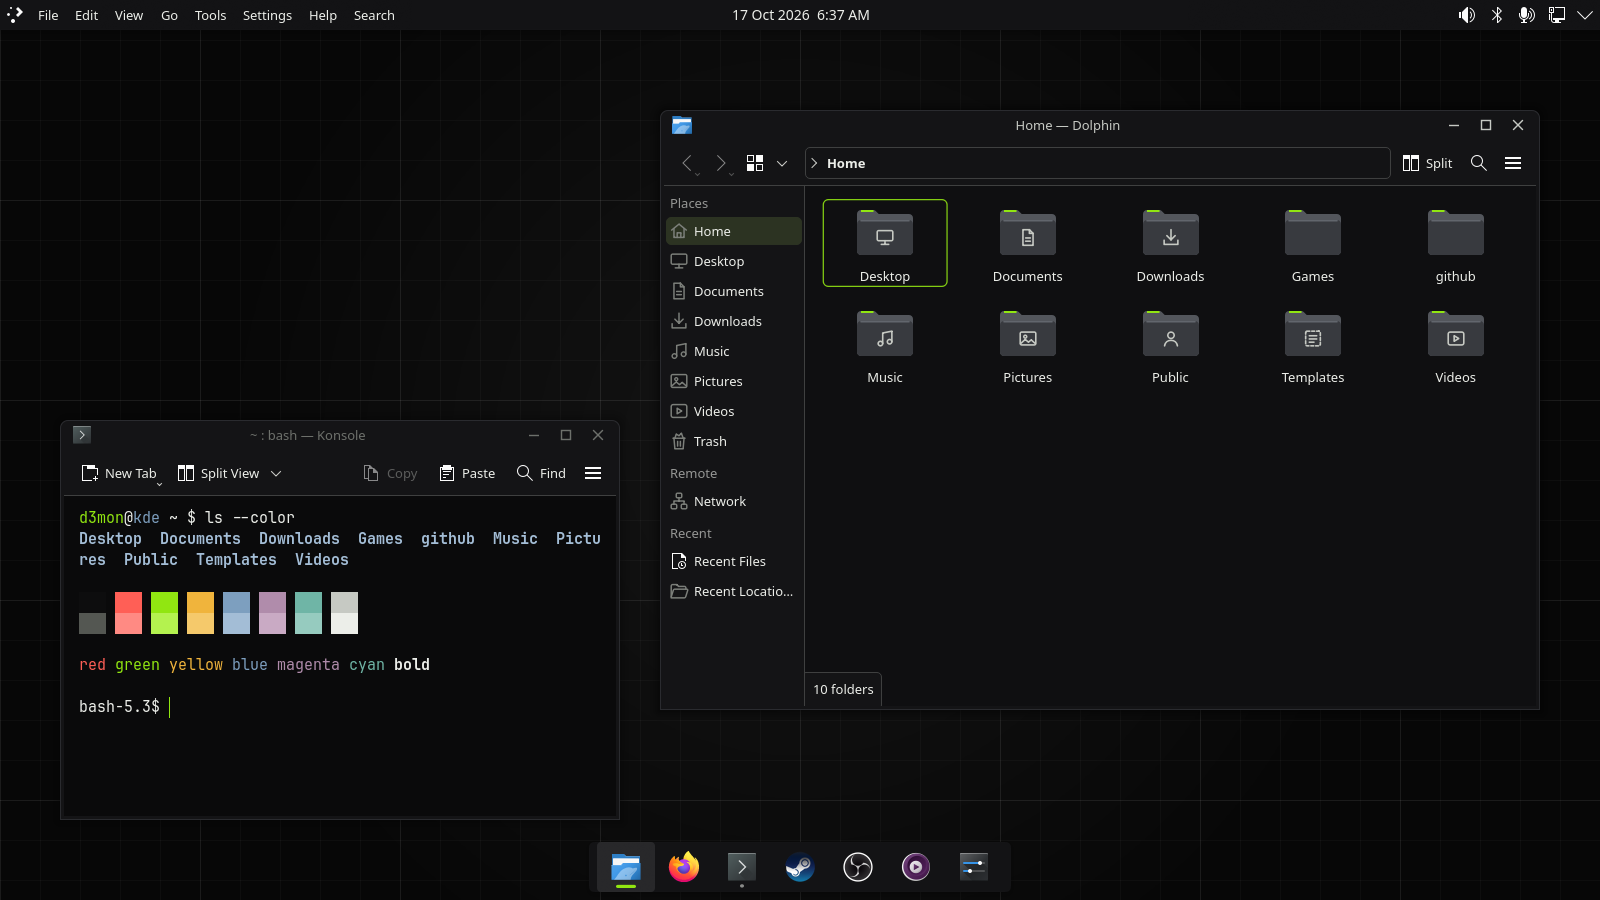
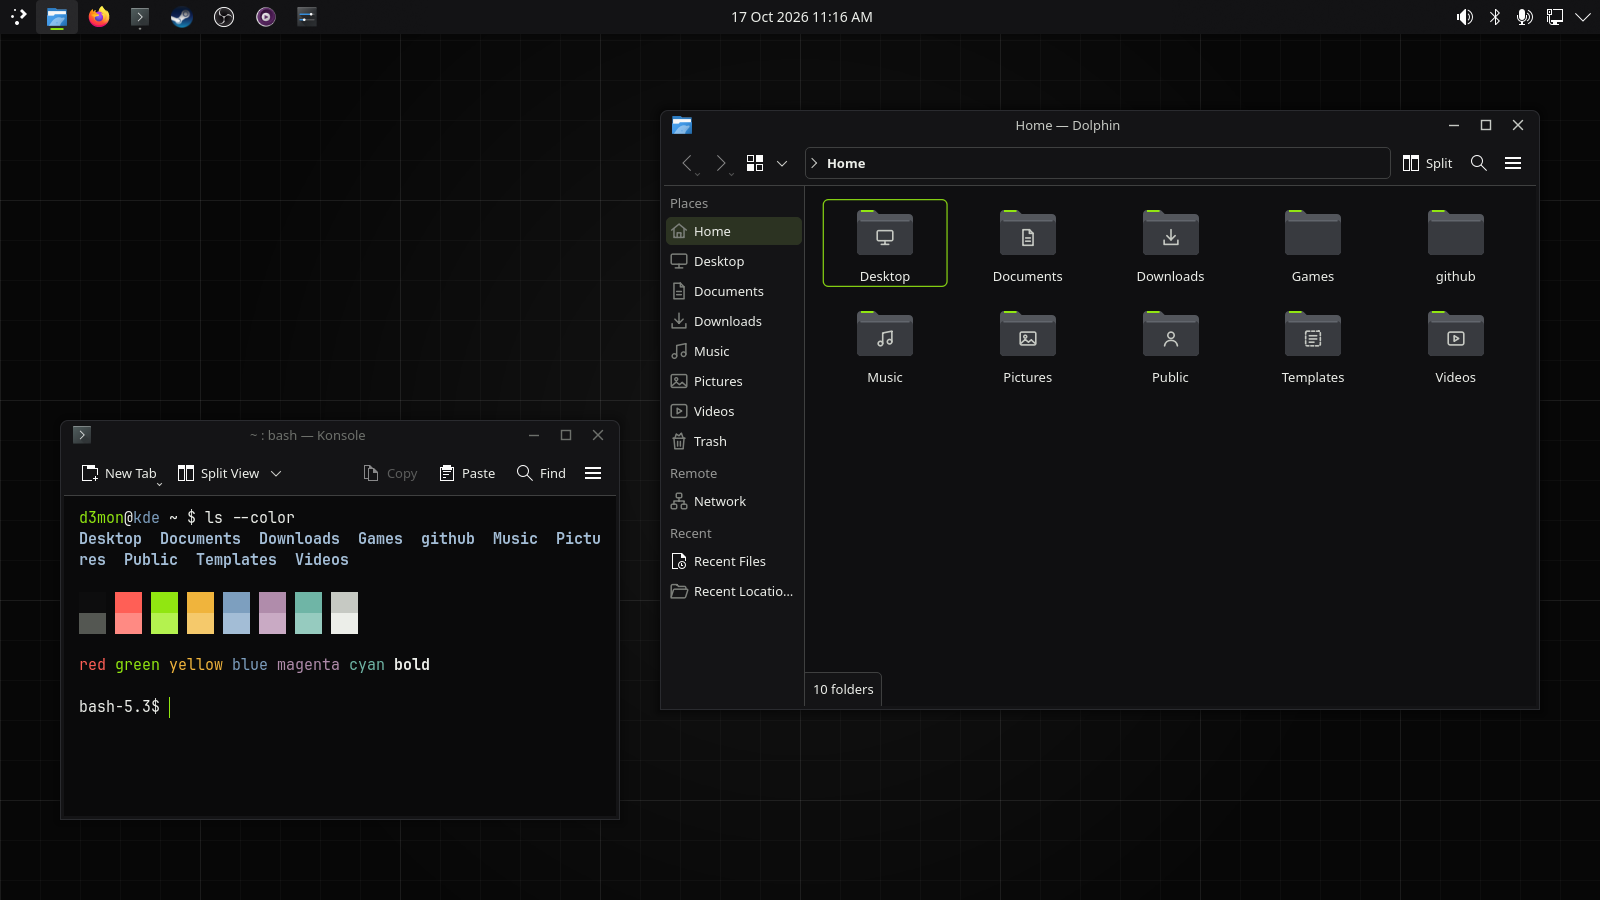
Top bar: pinned apps beside the launcher, drop the dock and app menu

diff --git a/theme/look-and-feel/org.d3mon.dark/contents/layouts/org.kde.plasma.desktop-layout.js b/theme/look-and-feel/org.d3mon.dark/contents/layouts/org.kde.plasma.desktop-layout.js
@@ -1,12 +1,13 @@
-// d3mon desktop layout (Dracula-like): a thin top bar and a floating
-// dock. Used only when the layout is applied on purpose
-// (plasma-apply-lookandfeel --resetLayout, or install.sh --layout);
+// d3mon desktop layout (Dracula-like): one thin top bar, no dock.
+// Used only when the layout is applied on purpose
+// (plasma-apply-lookandfeel --resetLayout, or theme.sh --layout);
 // it replaces the current panels.
 
-// Top bar: launcher, app menu | clock (centred) | system tray
+// Top bar: launcher, pinned apps | clock (centred) | system tray.
+// No app menu (File, Edit, ...): apps keep their own menus.
 var top = new Panel
 top.location = "top"
-top.height = 2 * Math.ceil(gridUnit * 1.6 / 2)
+top.height = 2 * Math.ceil(gridUnit * 1.8 / 2)
 top.floating = false
 top.lengthMode = "fill"
 
@@ -14,38 +15,12 @@ var kickoff = top.addWidget("org.kde.plasma.kickoff")
 kickoff.currentConfigGroup = ["General"]
 kickoff.writeConfig("icon", "start-here-kde-symbolic")
 
-top.addWidget("org.kde.plasma.appmenu")
-// Two expanding spacers share the free space, so the clock sits in
-// the middle (exactly centred when both sides are the same width).
-top.addWidget("org.kde.plasma.panelspacer")
-
-var clock = top.addWidget("org.kde.plasma.digitalclock")
-clock.currentConfigGroup = ["Appearance"]
-clock.writeConfig("showDate", true)
-// One line, "17 Oct 2026  5:50 AM" (1 = date beside the time).
-clock.writeConfig("dateDisplayFormat", 1)
-clock.writeConfig("dateFormat", "custom")
-clock.writeConfig("customDateFormat", "d MMM yyyy")
-// Same size as the app menu, not scaled up to the panel height.
-clock.writeConfig("autoFontAndSize", false)
-clock.writeConfig("fontSize", 10)
-clock.writeConfig("fontWeight", 400)
-clock.writeConfig("fontStyleName", "Regular")
-
-top.addWidget("org.kde.plasma.panelspacer")
-top.addWidget("org.kde.plasma.systemtray")
-
-// Dock: icon-only task manager, centred, as wide as its icons.
-var dock = new Panel
-dock.location = "bottom"
-dock.height = 2 * Math.ceil(gridUnit * 2.75 / 2)
-dock.floating = true
-dock.lengthMode = "fit"
-dock.alignment = "center"
-dock.hiding = "none"
-
-var tasks = dock.addWidget("org.kde.plasma.icontasks")
+// Icon-only task manager beside the launcher: pinned apps plus the
+// running ones. It doesn't stretch, so the spacers keep the clock
+// in the middle of the free space.
+var tasks = top.addWidget("org.kde.plasma.icontasks")
 tasks.currentConfigGroup = ["General"]
+tasks.writeConfig("fill", false)
 // Pinned apps; ones that are not installed are left out (they would
 // show as blank icons).
 var apps = [
@@ -68,6 +43,24 @@ for (var i = 0; i < apps.length; i++) {
     }
 }
 tasks.writeConfig("launchers", launchers)
+
+top.addWidget("org.kde.plasma.panelspacer")
+
+var clock = top.addWidget("org.kde.plasma.digitalclock")
+clock.currentConfigGroup = ["Appearance"]
+clock.writeConfig("showDate", true)
+// One line, "17 Oct 2026  5:50 AM" (1 = date beside the time).
+clock.writeConfig("dateDisplayFormat", 1)
+clock.writeConfig("dateFormat", "custom")
+clock.writeConfig("customDateFormat", "d MMM yyyy")
+// Normal text size, not scaled up to the panel height.
+clock.writeConfig("autoFontAndSize", false)
+clock.writeConfig("fontSize", 10)
+clock.writeConfig("fontWeight", 400)
+clock.writeConfig("fontStyleName", "Regular")
+
+top.addWidget("org.kde.plasma.panelspacer")
+top.addWidget("org.kde.plasma.systemtray")
 
 var desktopsArray = desktopsForActivity(currentActivity())
 for (var j = 0; j < desktopsArray.length; j++) {

diff --git a/theme/look-and-feel/org.d3mon.light/contents/layouts/org.kde.plasma.desktop-layout.js b/theme/look-and-feel/org.d3mon.light/contents/layouts/org.kde.plasma.desktop-layout.js
@@ -1,12 +1,13 @@
-// d3mon desktop layout (Dracula-like): a thin top bar and a floating
-// dock. Used only when the layout is applied on purpose
-// (plasma-apply-lookandfeel --resetLayout, or install.sh --layout);
+// d3mon desktop layout (Dracula-like): one thin top bar, no dock.
+// Used only when the layout is applied on purpose
+// (plasma-apply-lookandfeel --resetLayout, or theme.sh --layout);
 // it replaces the current panels.
 
-// Top bar: launcher, app menu | clock (centred) | system tray
+// Top bar: launcher, pinned apps | clock (centred) | system tray.
+// No app menu (File, Edit, ...): apps keep their own menus.
 var top = new Panel
 top.location = "top"
-top.height = 2 * Math.ceil(gridUnit * 1.6 / 2)
+top.height = 2 * Math.ceil(gridUnit * 1.8 / 2)
 top.floating = false
 top.lengthMode = "fill"
 
@@ -14,38 +15,12 @@ var kickoff = top.addWidget("org.kde.plasma.kickoff")
 kickoff.currentConfigGroup = ["General"]
 kickoff.writeConfig("icon", "start-here-kde-symbolic")
 
-top.addWidget("org.kde.plasma.appmenu")
-// Two expanding spacers share the free space, so the clock sits in
-// the middle (exactly centred when both sides are the same width).
-top.addWidget("org.kde.plasma.panelspacer")
-
-var clock = top.addWidget("org.kde.plasma.digitalclock")
-clock.currentConfigGroup = ["Appearance"]
-clock.writeConfig("showDate", true)
-// One line, "17 Oct 2026  5:50 AM" (1 = date beside the time).
-clock.writeConfig("dateDisplayFormat", 1)
-clock.writeConfig("dateFormat", "custom")
-clock.writeConfig("customDateFormat", "d MMM yyyy")
-// Same size as the app menu, not scaled up to the panel height.
-clock.writeConfig("autoFontAndSize", false)
-clock.writeConfig("fontSize", 10)
-clock.writeConfig("fontWeight", 400)
-clock.writeConfig("fontStyleName", "Regular")
-
-top.addWidget("org.kde.plasma.panelspacer")
-top.addWidget("org.kde.plasma.systemtray")
-
-// Dock: icon-only task manager, centred, as wide as its icons.
-var dock = new Panel
-dock.location = "bottom"
-dock.height = 2 * Math.ceil(gridUnit * 2.75 / 2)
-dock.floating = true
-dock.lengthMode = "fit"
-dock.alignment = "center"
-dock.hiding = "none"
-
-var tasks = dock.addWidget("org.kde.plasma.icontasks")
+// Icon-only task manager beside the launcher: pinned apps plus the
+// running ones. It doesn't stretch, so the spacers keep the clock
+// in the middle of the free space.
+var tasks = top.addWidget("org.kde.plasma.icontasks")
 tasks.currentConfigGroup = ["General"]
+tasks.writeConfig("fill", false)
 // Pinned apps; ones that are not installed are left out (they would
 // show as blank icons).
 var apps = [
@@ -68,6 +43,24 @@ for (var i = 0; i < apps.length; i++) {
     }
 }
 tasks.writeConfig("launchers", launchers)
+
+top.addWidget("org.kde.plasma.panelspacer")
+
+var clock = top.addWidget("org.kde.plasma.digitalclock")
+clock.currentConfigGroup = ["Appearance"]
+clock.writeConfig("showDate", true)
+// One line, "17 Oct 2026  5:50 AM" (1 = date beside the time).
+clock.writeConfig("dateDisplayFormat", 1)
+clock.writeConfig("dateFormat", "custom")
+clock.writeConfig("customDateFormat", "d MMM yyyy")
+// Normal text size, not scaled up to the panel height.
+clock.writeConfig("autoFontAndSize", false)
+clock.writeConfig("fontSize", 10)
+clock.writeConfig("fontWeight", 400)
+clock.writeConfig("fontStyleName", "Regular")
+
+top.addWidget("org.kde.plasma.panelspacer")
+top.addWidget("org.kde.plasma.systemtray")
 
 var desktopsArray = desktopsForActivity(currentActivity())
 for (var j = 0; j < desktopsArray.length; j++) {

diff --git a/HANDOFF.md b/HANDOFF.md
@@ -19,6 +19,9 @@ GitHub: https://github.com/uhd3mon/d3mon-kde (public).
   "traffic light" window buttons replaced by flat line buttons.
   Git history rewritten without Claude co-author lines (Kevin's
   request); commits carry only Kevin's name from now on.
+- 2026-10-17: dock removed; pinned apps moved into the top bar
+  beside the launcher; app menu (File, Edit...) removed from the
+  bar (Kevin's request).
 
 ## Current state (2026-10-17)
 
@@ -53,7 +56,9 @@ Not yet run for real (packages, live apply on Kevin's desktop).
   v2.0 (flat 32x24 cells, line glyphs minus / square / two squares
   / X in the title colour, rounded hover fill, red close hover
   with white X); wallpaper d3mon-grid; Global Themes org.d3mon.dark
-  / .light (+ layout JS: top bar + dock). Konsole, kitty, mpv.
+  / .light (+ layout JS: one top bar = launcher +
+  pinned/running apps, centred clock, tray; no dock, no app
+  menu). Konsole, kitty, mpv.
 - `tools/package.sh` -> `dist/` (optional "Install from File"
   packages; release v0.2.0 carries them).
 - `tools/screenshot.sh`: nested KWin + fake HOME, uses theme.sh.
@@ -64,10 +69,10 @@ Not yet run for real (packages, live apply on Kevin's desktop).
    lacks the delete_repo scope: `gh auth refresh -h github.com -s
    delete_repo`, then `gh repo delete uhd3mon/hyprd3mon --yes`).
 2. Kevin, on the laptop: `./install.sh --apply` (or `./apps.sh
-   --apply` and `./theme.sh --apply`; `--layout` for top bar +
-   dock). Hyprland packages must now be removed by hand if wanted.
+   --apply` and `./theme.sh --apply`; `--layout` for the top
+   bar; it replaces his current panels, incl. the old dock). Hyprland packages must now be removed by hand if wanted.
 3. Check in a real session: new window buttons at his scale, GTK
-   apps (Firefox), kitty (untested), Konsole blur, dock states,
+   apps (Firefox), kitty (untested), Konsole blur, task button states,
    `--layout` on two monitors.
 4. Optional: publish to the KDE Store (needs Kevin's account).
 5. Install shellcheck and run it on all scripts.
@@ -113,6 +118,10 @@ Not yet run for real (packages, live apply on Kevin's desktop).
 
 ## Verification observed (2026-10-17)
 
+- Top bar layout change: nested Plasma screenshots dark + light
+  show launcher, browser + pinned apps, centred clock, tray; no
+  dock, no app menu (task manager `fill=false` keeps it compact).
+
 - `bash -n install.sh apps.sh theme.sh lib/common.sh tools/*.sh`
   OK; no "hypr" left in any script.
 - Real-HOME dry runs of apps.sh, theme.sh, install.sh: exit 0;
@@ -146,4 +155,5 @@ Not yet run for real (packages, live apply on Kevin's desktop).
 - d3mon-kde colours (Atlas, 2026-10-17): dark window/header #141416, view #0f0f11, button #1c1c1f (wallpaper #070707). Selection: ChangeSelectionColor=false + explicit [Colors:Selection][Inactive] (dark #2c3322, light #dfeccf); light active selection #c8e2a0 with dark ink. KDE otherwise tints unfocused selection 40% toward accent (olive/lime). Breeze focus/checkbox = DecorationFocus; QPalette::Accent (progress bars) = Selection bg. tools/screenshot.sh pre-writes user-places.xbel (owner http://www.kde.org, GroupState-Devices/RemovableDevices-IsHidden=true, one Home bookmark so KIO keeps the flags). Aurorae bg in tools/gen/aurorae.py still #0d0d0e, should become #141416. (Atlas, 2026-10-17)
 - 2026-10-17: project pivoted from Hyprland to d3mon-kde (KDE Plasma 6 app restore + d3mon theme). New public repo https://github.com/uhd3mon/d3mon-kde (fresh history, commit c5008c6, release v0.1.0 with Install-from-File packages from tools/package.sh). Old hyprd3mon history saved at ~/.local/share/hyprd3mon-archive/hyprd3mon.bundle; old GitHub repo uhd3mon/hyprd3mon NOT yet deleted (gh token lacks delete_repo; Kevin must run gh auth refresh -h github.com -s delete_repo, then gh repo delete). Notes above about hyprd3mon/Hyprland are history. Visual testing: tools/screenshot.sh (nested KWin, fake HOME) — safe, real Plasma screenshots. (Sora, 2026-10-17)
 - d3mon-kde window buttons (Strata, 2026-10-17): Kevin dropped the mac-style round dots. tools/gen/aurorae.py now draws flat 32x24 cells with line glyphs (1.4 px strokes on .5 px coordinates, title text colour, inactive = dim text, deactivated 35%), a rounded hover fill (dark #26272b, light #dcddd8), a stronger pressed fill and a red close hover (#e5534b dark / #e0483f light) with a white X. rc: TitleEdgeTop/Bottom 3, TitleHeight 24, ButtonSpacing 0, TitleEdgeLeft/Right 6. aurorae.py now also writes metadata.json. tools/gen/preview-deco.sh reads the layout from the rc and renders strips at 1x, 1.25x and 1.5x (run it with bash; it isn't executable). Seen in nested Plasma dark + light. (Strata, 2026-10-17)
+- d3mon-kde 2026-10-17 (commit 788366e, pushed): install.sh split into apps.sh (packages, sudo) + theme.sh (all theme files + kitty/mpv configs, per user) + lib/common.sh; install.sh only chains them. Hyprland removal (--remove-hyprland/--remove-hyprd3mon) deleted. Aurorae v2.0 = flat line min/max/close buttons, red close hover (no round dots). History rewritten without Claude co-author lines; release v0.1.0 deleted, v0.2.0 published. Older notes about --remove-hyprland, round buttons and v0.1.0 are stale. (Sora, 2026-10-17)
 <!-- workspace:memory:end -->

diff --git a/README.md b/README.md
@@ -12,8 +12,8 @@ KDE itself is not installed here; pick KDE Plasma in `archinstall`.
 ![d3mon Light](docs/screenshots/desktop-light.png)
 
 These are real screenshots of a nested Plasma 6.7 session
-(`tools/screenshot.sh`). The top bar + dock layout is optional
-(`--layout`).
+(`tools/screenshot.sh`). The top bar layout (launcher + pinned
+apps, clock, tray) is optional (`--layout`).
 
 ## Use
 
@@ -30,8 +30,8 @@ cd d3mon-kde
   Options: `--skip-steam`, `--skip-aur`.
 - `./theme.sh --apply` installs the whole theme into KDE for your
   user and applies it; nothing to download. Options:
-  `--theme light`, `--layout` (replaces your panels with the top
-  bar + floating dock; off by default), `--skip-configs` (no
+  `--theme light`, `--layout` (replaces your panels with one top
+  bar: launcher + pinned apps, clock, tray; off by default), `--skip-configs` (no
   Kitty/MPV configs).
 
 `install.sh` takes all of these, plus `--skip-packages` (no
@@ -52,7 +52,7 @@ From the AUR via `yay` (`packages/aur.txt`): obs-vkcapture
   System Settings → Colors & Themes → Global Theme
 - **Colours** D3monDark / D3monLight (KDE apps and GTK apps)
 - **Icons** d3mon / d3mon Light: folder icons, the rest is Breeze
-- **Plasma Style** d3mon: dock with an accent underline
+- **Plasma Style** d3mon: task buttons with an accent underline
 - **Window decoration** d3mon / d3mon Light: flat minimise,
   maximise and close buttons (red on close hover)
 - **Wallpaper** d3mon Grid (dark and light)
@@ -87,4 +87,4 @@ decorations, in `dist/`.
   konsole, wallpapers
 - `configs/`: kitty, mpv
 - `tools/`: `package.sh`, `screenshot.sh`, `gen/` (icon,
-  decoration, dock and wallpaper generators)
+  decoration, task button and wallpaper generators)
